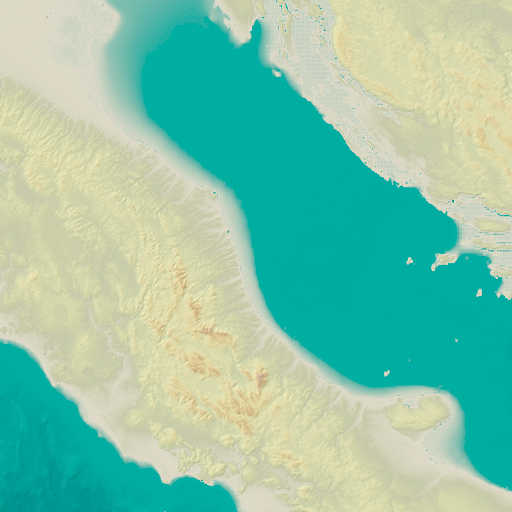
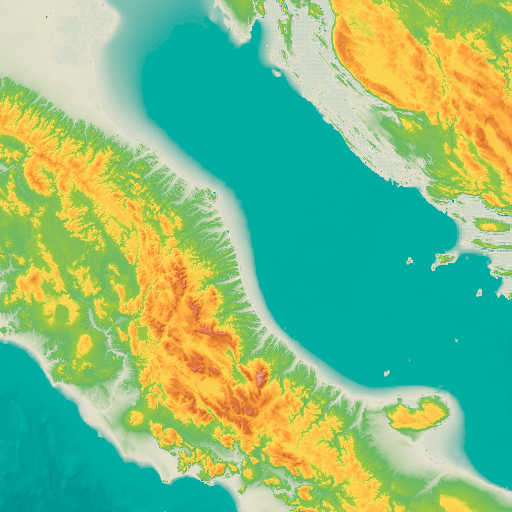
Color scheme improved

diff --git a/src/color_schemes.py b/src/color_schemes.py
@@ -16,11 +16,10 @@ moritz_mix = ColorSchema(
         [222, 218, 200],    # Grey
         [199, 202, 170],    # Darker Green
         [210, 214, 170],    # Light Green
-        [222, 221, 176],    # Light Yellow
-        [225, 216, 165],    # Medium Champagne
+        [222, 221, 175],    # Pale Spring Bud (Yellow)
         [220, 199, 149],    # Wheat
         [208, 178, 140],    # Tan
-        # [218, 179, 168],    # Silver Pink
+        [218, 179, 168],    # Silver Pink
         [190, 199, 192],    # Grey
         [245, 245, 245],    # White   
         [212, 235, 235],    # Ice Blue
@@ -35,10 +34,46 @@ moritz_mix = ColorSchema(
         0,      # Grey
         150,    # Darker Green
         400,    # Light Green
-        800,    # Light Yellow
-        1350,   # Medium Champagne
-        1800,   # Wheat
-        2300,   # Tan
+        500,    # Pale Spring Bud (Yellow)
+        1050,   # Wheat
+        1800,   # Tan
+        2300,   # Silver Pink
+        3000,   # Grey
+        3100,   # White
+        4100,   # Ice Blue
+        6600    
+     ])
+)
+
+moritz_mix_bright = ColorSchema(
+    colors = np.array([
+        [0, 0, 81],         # Dark Blue
+        [0, 174, 162],      # Light Blue
+        [228, 224, 205],    # Grey
+        [107, 185, 100],    # Darker Green
+        [158, 200, 62],     # Light Green
+        [250, 219, 84],     # Pale Spring Bud (Yellow)
+        [255, 172, 64],     # Wheat
+        [216, 108, 49],     # Tan
+        [235, 134, 111],    # Silver Pink
+        [190, 199, 192],    # Grey
+        [245, 245, 245],    # White   
+        [127, 213, 247],    # Ice Blue
+    ]),
+    stops = np.array([ 
+        # Stops blend from current to next value
+        # Color next top stop indicates which color is reached at this height
+        # For example, white transforms to blue between 4100 and 6600
+
+        -8000,  # Dark Blue
+        -40,    # Light Blue
+        0,      # Grey
+        150,    # Darker Green
+        400,    # Light Green
+        500,    # Pale Spring Bud (Yellow)
+        1050,   # Wheat
+        1800,   # Tan
+        2300,   # Silver Pink
         3000,   # Grey
         3100,   # White
         4100,   # Ice Blue
